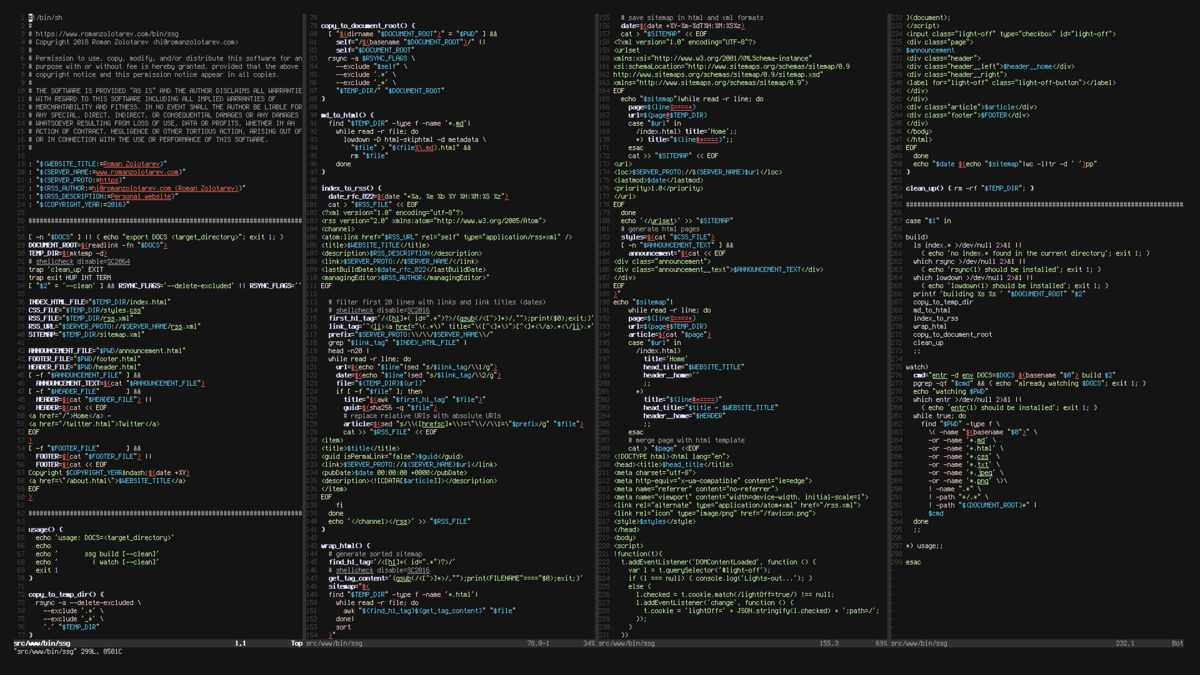
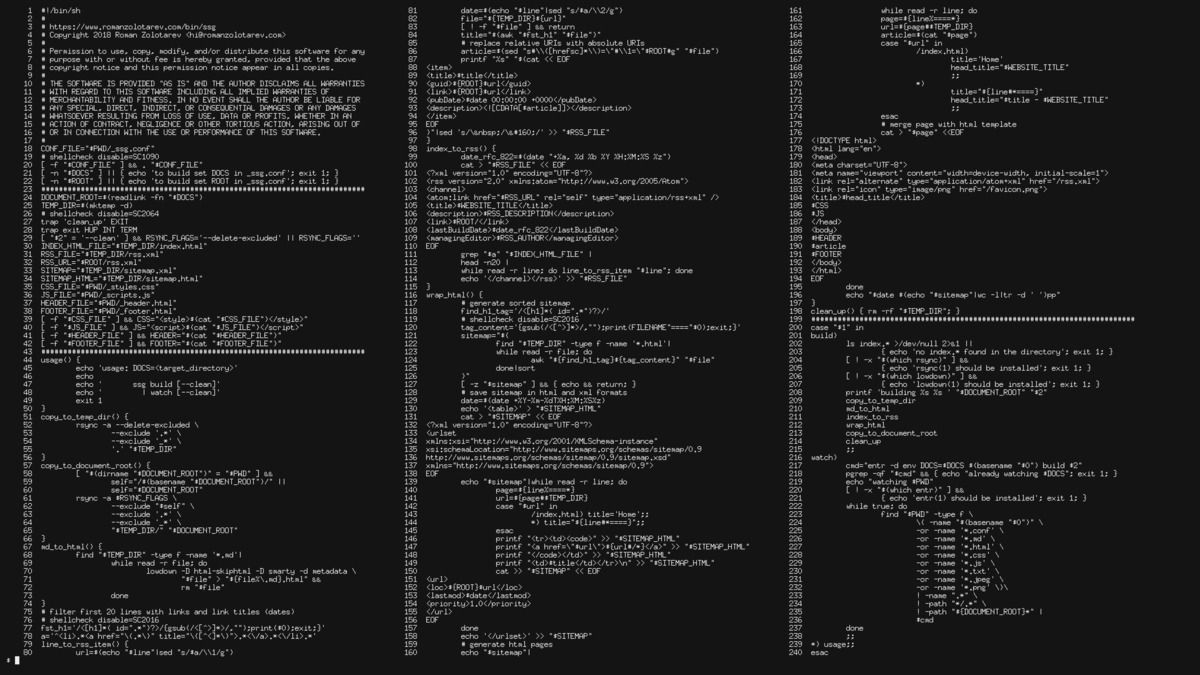
update ssg and its screenshots

Changed region(s): [[0.0, 0.0, 0.9867, 0.9956]]

diff --git a/ssg.md b/ssg.md
@@ -59,8 +59,8 @@ It generates a site from HTML and Markdown articles.
 1. then wraps articles with a single HTML template,
 1. copies everything from the temporary directory to `$DOCS/`.
 
-![ssg](/ssg.jpeg)
-_299 LoC in Vim with Terminus 8px. [Enlarge, enhance, zoom!](/ssg.png)_
+[![ssg](ssg.jpeg)](ssg.png)
+_240 LoC. [Enlarge, enhance, zoom!](ssg.png)_
 
 ## Why not Jekyll or "$X"?
 
